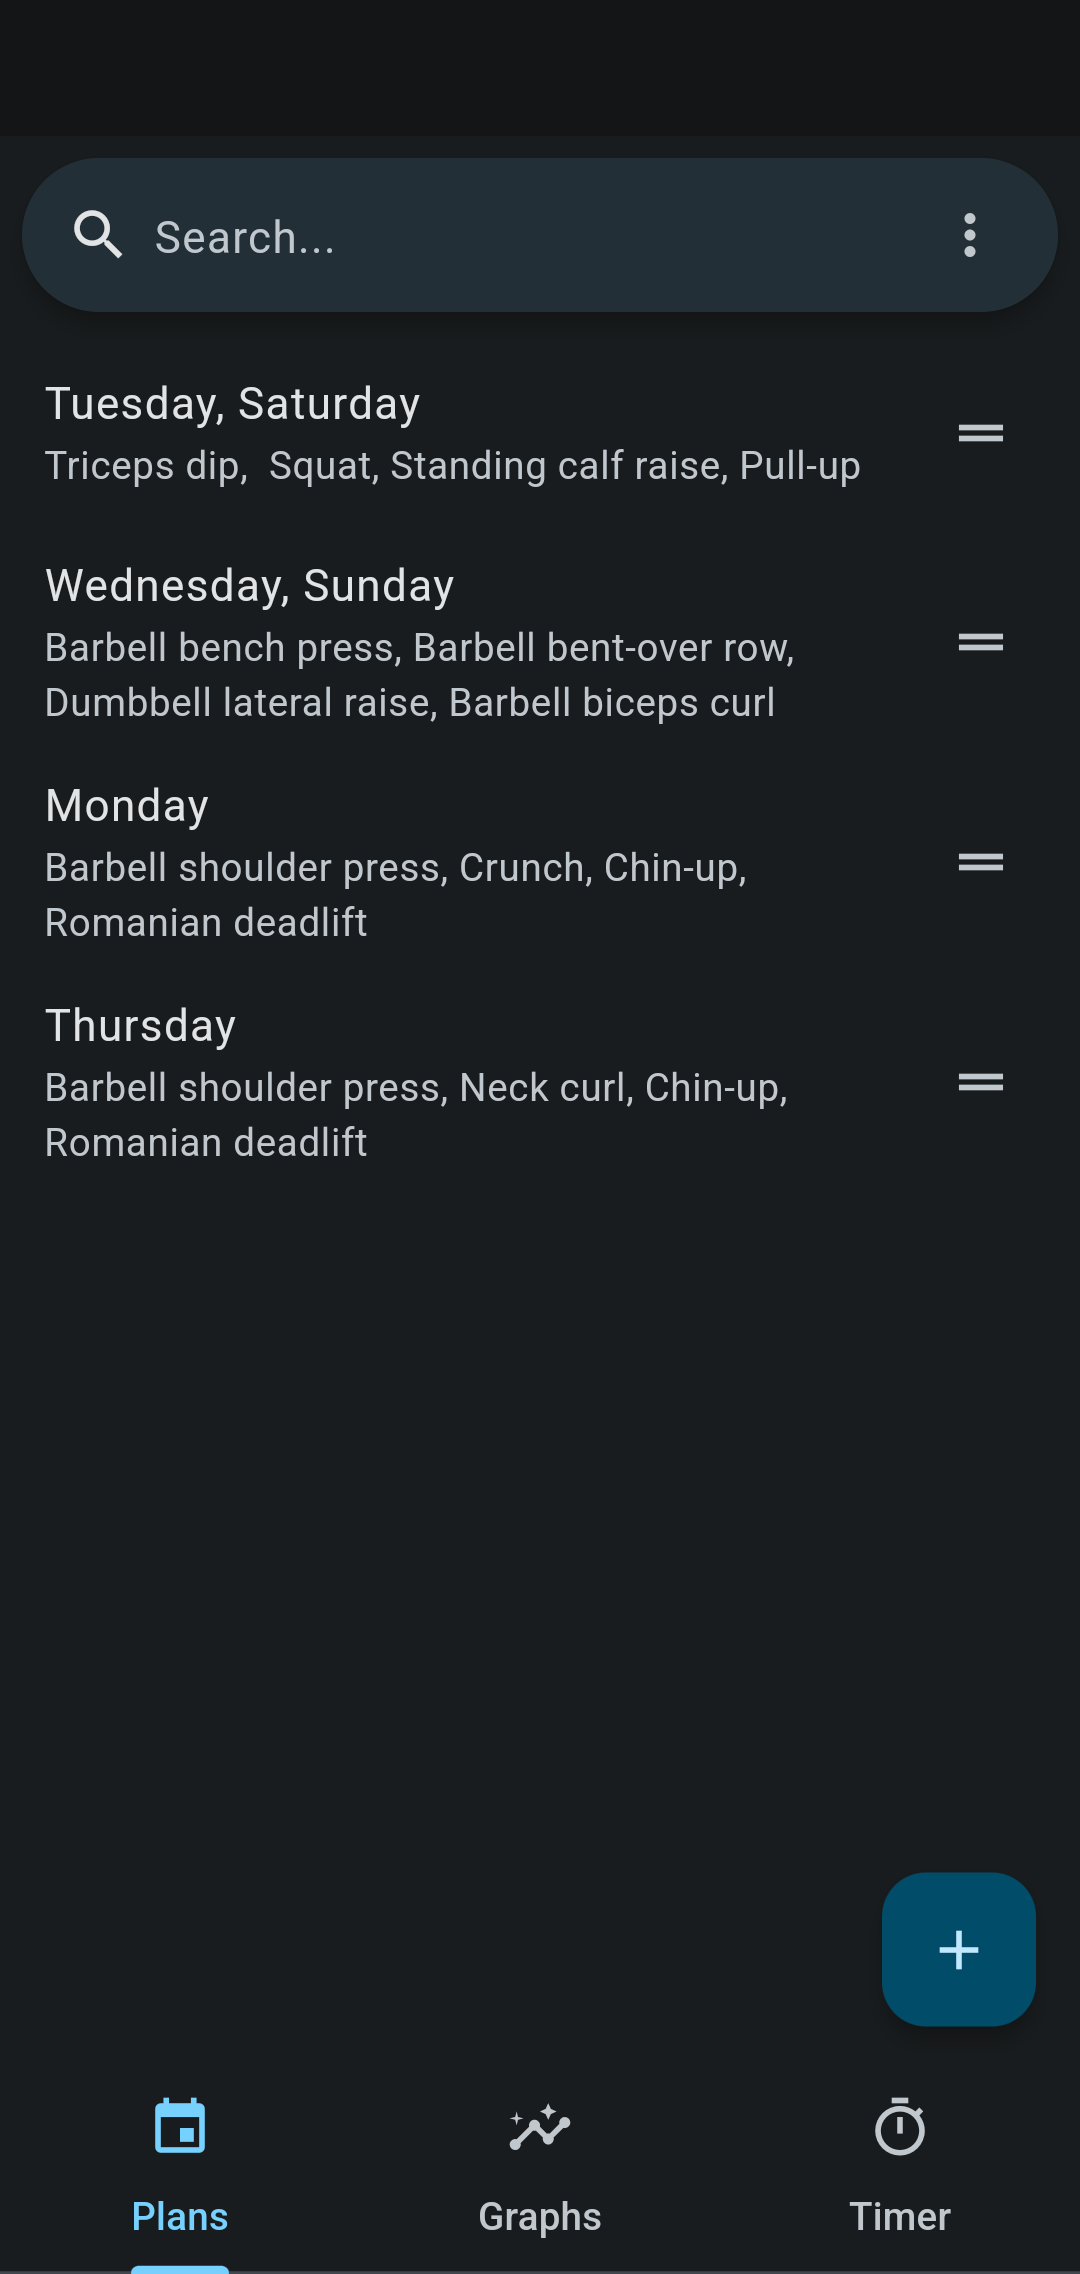
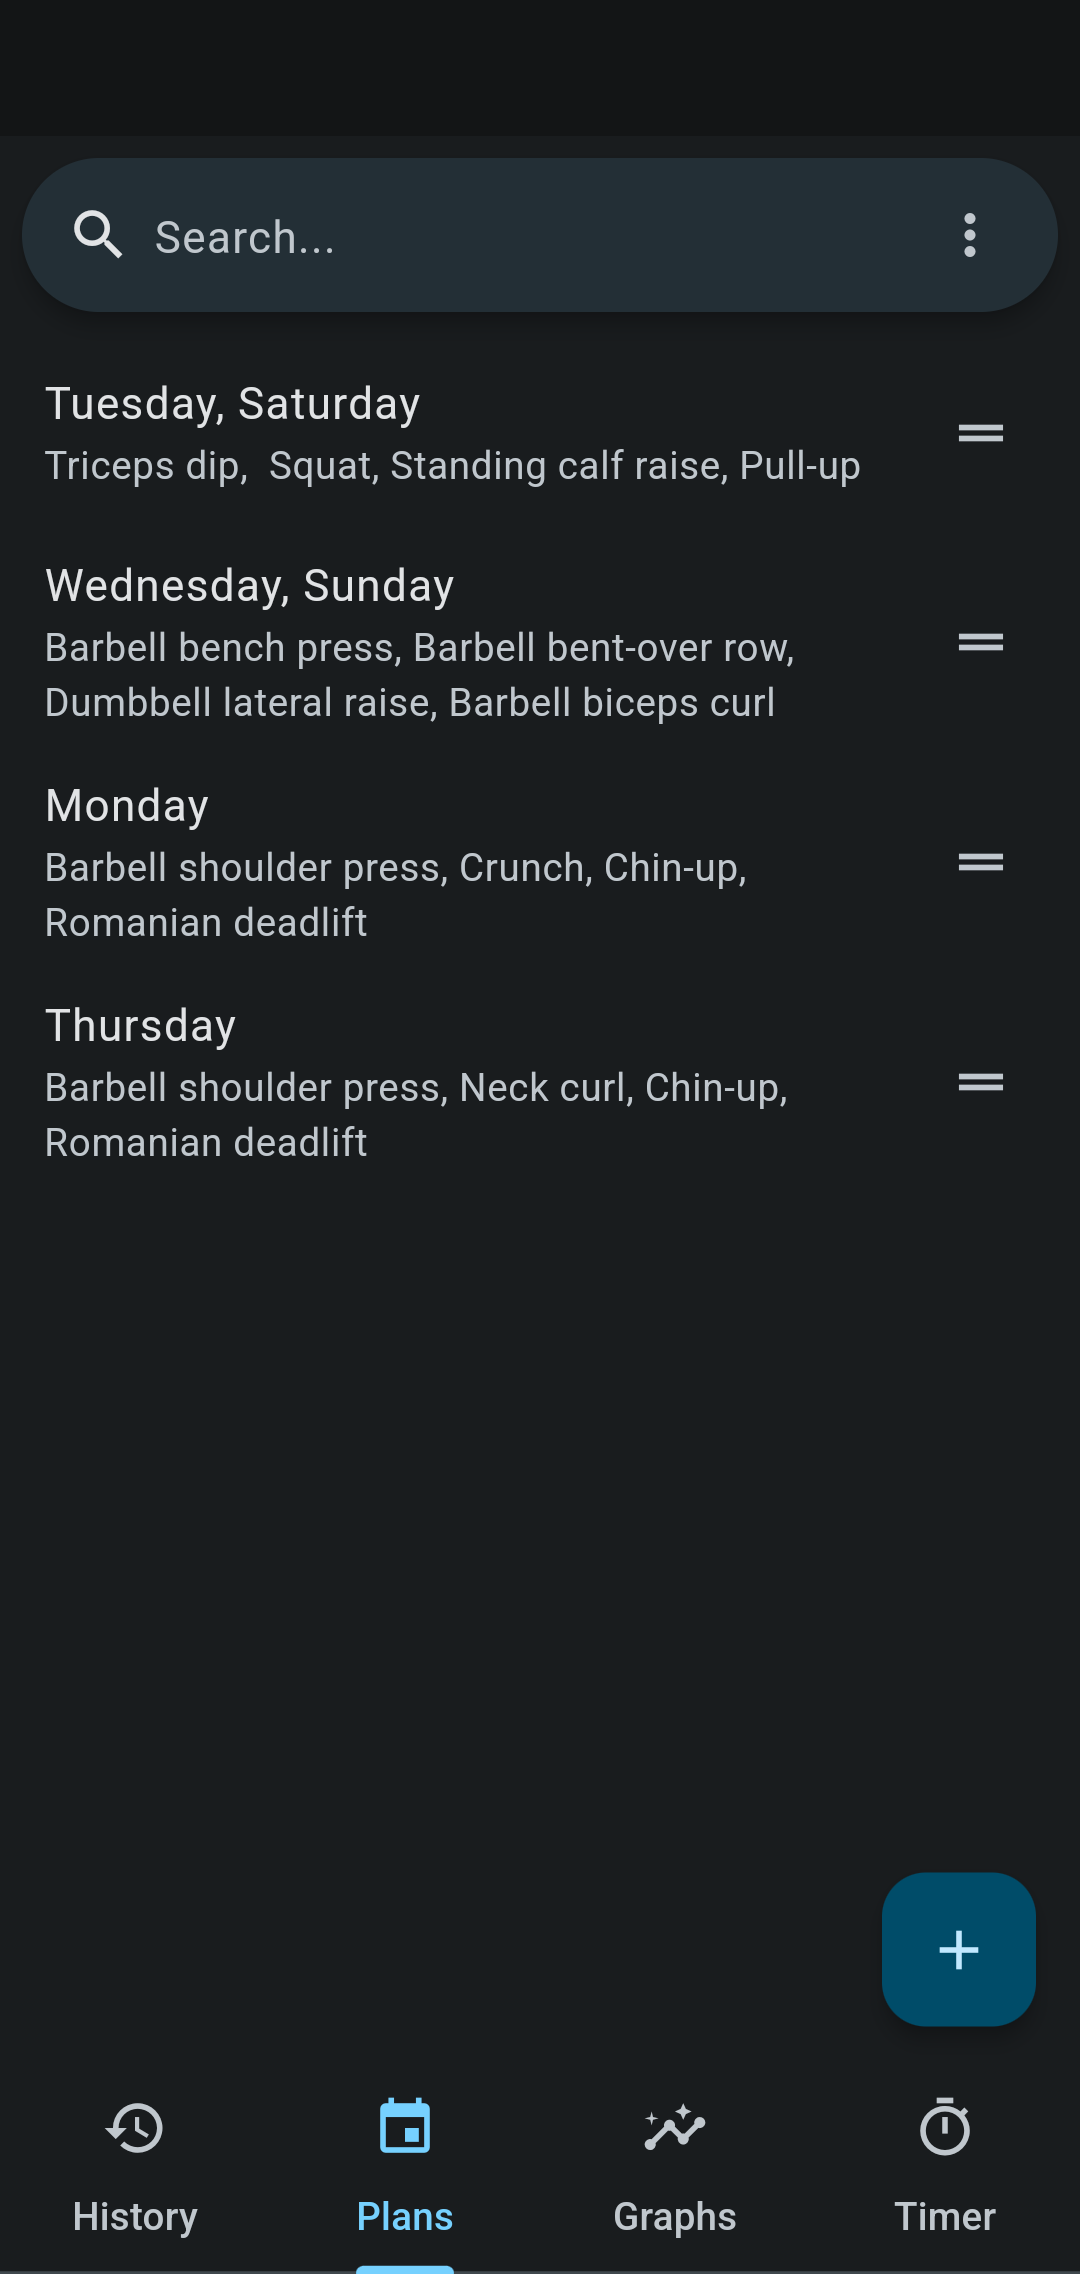
Fix screenshots - 1.0.72 🚀

diff --git a/integration_test/screenshot_test.dart b/integration_test/screenshot_test.dart
@@ -107,7 +107,7 @@ List<PlansCompanion> plans = [
   ),
 ];
 
-enum TabBarState { plans, graphs, timer }
+enum TabBarState { history, plans, graphs, timer }
 
 const screenshotExercise = "Dumbbell shoulder press";
 
@@ -133,6 +133,9 @@ BuildContext getBuildContext(WidgetTester tester, TabBarState? tabBarState) {
           .currentContext!;
     case TabBarState.timer:
       return (tester.state(find.byType(TimerPage)) as TimerPageState).context;
+    case TabBarState.history:
+      return (tester.state(find.byType(HistoryPage)) as HistoryPageState)
+          .context;
     case null:
       break;
   }

diff --git a/lib/history_page.dart b/lib/history_page.dart
@@ -14,10 +14,10 @@ class HistoryPage extends StatefulWidget {
   const HistoryPage({super.key});
 
   @override
-  createState() => _HistoryPageState();
+  createState() => HistoryPageState();
 }
 
-class _HistoryPageState extends State<HistoryPage> {
+class HistoryPageState extends State<HistoryPage> {
   late Stream<List<GymSet>> _stream;
   Set<int> _selected = {};
   String _search = '';
